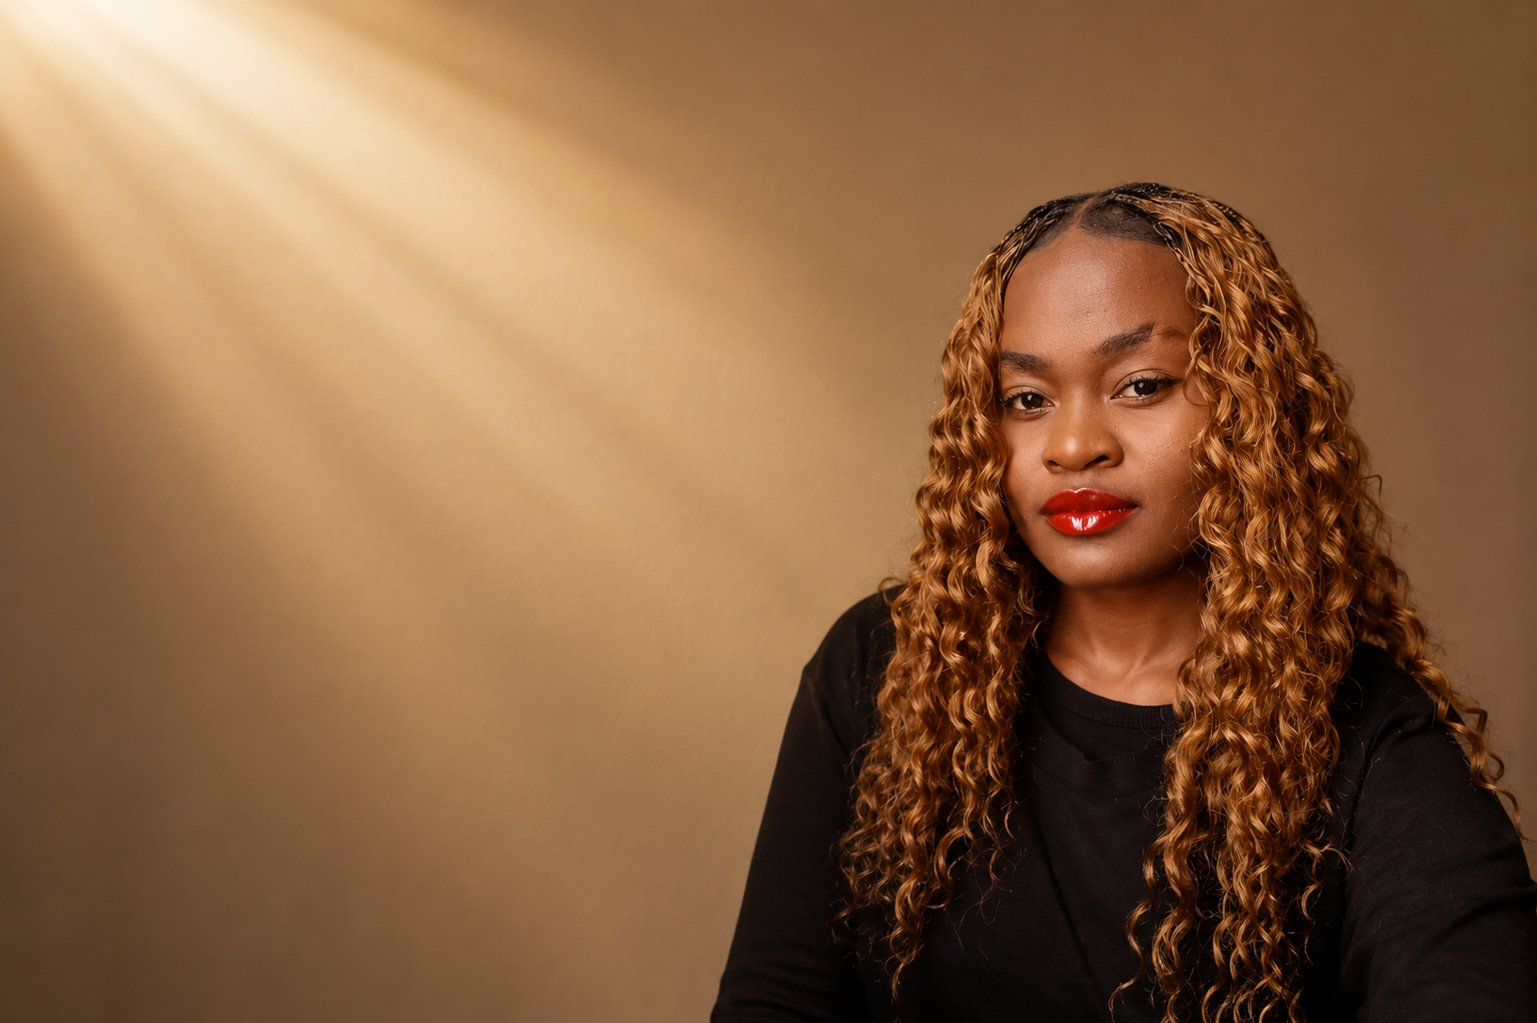
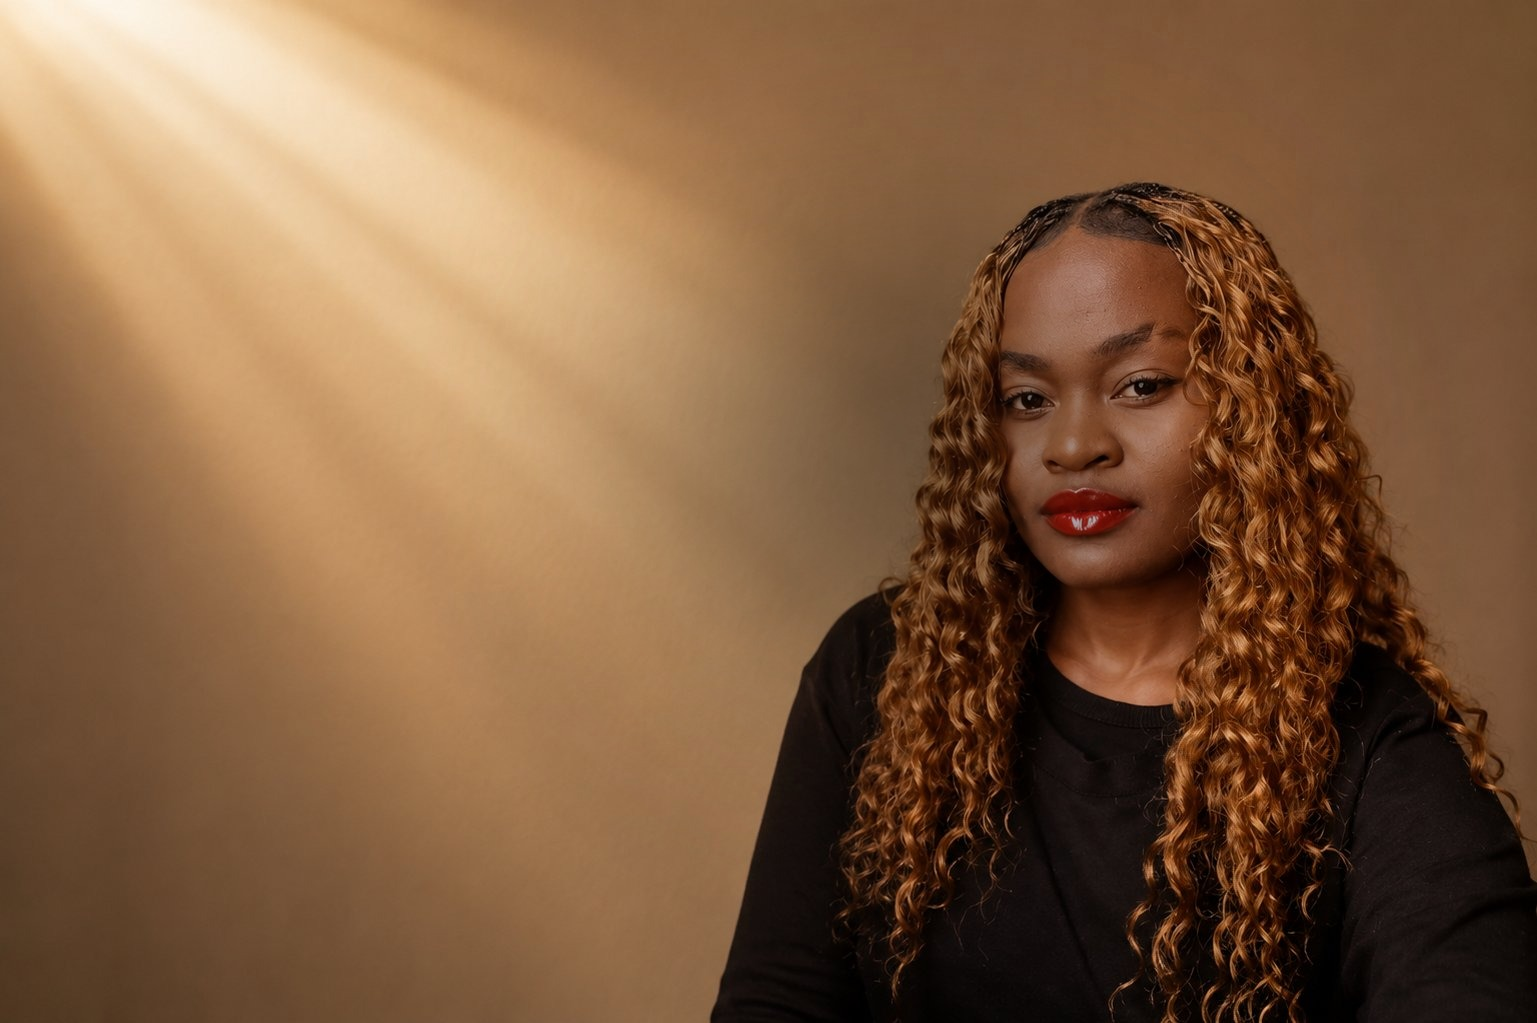
fgrty

Changed region(s): [[0.3748, 0.1818, 0.812, 0.697]]

diff --git a/app/book/page.tsx b/app/book/page.tsx
@@ -1,9 +1,23 @@
 "use client";
-import { useEffect, useState } from "react";
-import { ArrowRight, ArrowLeft, Clock, CheckCircle2, ShieldCheck, Smartphone, Landmark } from "lucide-react";
+import React, { useEffect, useRef, useState } from "react";
+import { ArrowRight, ArrowLeft, Clock, CheckCircle2, ShieldCheck, Smartphone, Landmark, SkipForward } from "lucide-react";
 import { CONSULTATION_TYPES } from "@/lib/types";
 
 type Step = 1 | 2 | 3;
+type FormState = { name: string; email: string; organization: string; website: string; industry: string; team_size: string; primary_challenge: string; desired_outcome: string };
+
+// Step 1 as a guided conversation — one question at a time instead of an 8-field wall.
+// `textarea` fields submit on Enter (Shift+Enter for a newline); others submit on Enter.
+const INTAKE_QUESTIONS: { key: keyof FormState; bot: string; placeholder: string; required: boolean; type?: "email" | "textarea"; skippable?: boolean }[] = [
+  { key: "name", bot: "Hi — I'm glad you're here. What's your name?", placeholder: "Your full name", required: true },
+  { key: "email", bot: "Nice to meet you. What's the best email to send your confirmation to?", placeholder: "your@email.com", type: "email", required: true },
+  { key: "organization", bot: "Are you reaching out for a company, NGO, or on your own behalf?", placeholder: "Company / NGO / Personal", required: false, skippable: true },
+  { key: "website", bot: "Got a website I should take a look at beforehand?", placeholder: "https://...", required: false, skippable: true },
+  { key: "industry", bot: "What industry or sector are you in?", placeholder: "e.g. Legal Tech, NGO, FinTech", required: false, skippable: true },
+  { key: "team_size", bot: "Roughly how big is the team?", placeholder: "e.g. 1–5, 10–50, 100+", required: false, skippable: true },
+  { key: "primary_challenge", bot: "Let's get into it — what's the main challenge you're facing right now?", placeholder: "Type your answer...", type: "textarea", required: true },
+  { key: "desired_outcome", bot: "And what would a successful outcome look like for you?", placeholder: "Type your answer...", type: "textarea", required: true },
+];
 
 const TIME_SLOTS: { label: string; value: string }[] = [
   { label: "09:00 AM", value: "09:00" },
@@ -18,8 +32,8 @@ const timeLabel = (value: string) => TIME_SLOTS.find(s => s.value === value)?.la
 // If Paystack isn't configured (no NEXT_PUBLIC_PAYSTACK_PUBLIC_KEY), paid
 // bookings fall back to a manual flow — no account signup needed to get the
 // site working, but it requires Decra to confirm payments by hand in /admin.
-const MPESA_PAYBILL = "XXXXXX";
-const MPESA_ACCOUNT = "Your name as the account number";
+const MPESA_PAYBILL = "542542";
+const MPESA_ACCOUNT = "02006312021250";
 const BANK_DETAILS = {
   accountName: "Decra Kerubo Mokorah",
   bankName: "I&M Bank",
@@ -50,7 +64,42 @@ export default function BookPage() {
   const [manualRef, setManualRef] = useState("");
   const [manualChannel, setManualChannel] = useState<"mpesa" | "bank">("mpesa");
   const [preferBankTransfer, setPreferBankTransfer] = useState(false);
-  const [form, setForm] = useState({ name: "", email: "", organization: "", website: "", industry: "", team_size: "", primary_challenge: "", desired_outcome: "" });
+  const [form, setForm] = useState<FormState>({ name: "", email: "", organization: "", website: "", industry: "", team_size: "", primary_challenge: "", desired_outcome: "" });
+
+  // Chat-style intake state
+  const [qIndex, setQIndex] = useState(0);
+  const [botTyping, setBotTyping] = useState(true);
+  const [chatInput, setChatInput] = useState("");
+  const [chatDone, setChatDone] = useState(false);
+  const chatEndRef = useRef<HTMLDivElement>(null);
+  const chatInputRef = useRef<HTMLTextAreaElement>(null);
+
+  const currentQuestion = INTAKE_QUESTIONS[qIndex];
+
+  // Simulate the bot "typing" before each question appears — keeps the pacing
+  // conversational instead of every question dumping in instantly.
+  useEffect(() => {
+    if (chatDone) return;
+    setBotTyping(true);
+    const t = setTimeout(() => { setBotTyping(false); chatInputRef.current?.focus(); }, qIndex === 0 ? 350 : 500 + Math.random() * 350);
+    return () => clearTimeout(t);
+  }, [qIndex, chatDone]);
+
+  useEffect(() => {
+    chatEndRef.current?.scrollIntoView({ behavior: "smooth", block: "end" });
+  }, [qIndex, botTyping, chatDone]);
+
+  const submitAnswer = (skip?: boolean) => {
+    const value = skip ? "" : chatInput.trim();
+    if (currentQuestion.required && !value) return;
+    setForm(f => ({ ...f, [currentQuestion.key]: value }));
+    setChatInput("");
+    if (qIndex < INTAKE_QUESTIONS.length - 1) {
+      setQIndex(i => i + 1);
+    } else {
+      setChatDone(true);
+    }
+  };
 
   const selectedConsultation = CONSULTATION_TYPES.find(t => t.id === selectedType);
   const isPaid = (selectedConsultation?.price ?? 0) > 0;
@@ -168,28 +217,85 @@ export default function BookPage() {
           ))}
         </div>
 
-        {/* Step 1 */}
+        {/* Step 1 — conversational intake */}
         {step === 1 && (
           <div>
             <h2 style={{ fontFamily: "var(--font-manjari)", fontWeight: 700, fontSize: "1.05rem", color: "var(--c-forest)", marginBottom: "0.35rem" }}>Tell me about yourself.</h2>
-            <p style={{ fontSize: "0.75rem", color: "var(--c-ink-muted)", marginBottom: "2rem" }}>This helps me prepare for our conversation.</p>
-            <div style={{ display: "flex", flexDirection: "column", gap: "1.1rem", marginBottom: "2rem" }}>
-              {[{ key: "name", label: "Full Name *", required: true, placeholder: "Your full name" }, { key: "email", label: "Email *", required: true, placeholder: "your@email.com", type: "email" }, { key: "organization", label: "Organization", placeholder: "Company / NGO / Personal" }, { key: "website", label: "Website", placeholder: "https://..." }, { key: "industry", label: "Industry / Sector", placeholder: "e.g. Legal Tech, NGO, FinTech" }, { key: "team_size", label: "Team Size", placeholder: "e.g. 1–5, 10–50, 100+" }].map(field => (
-                <div key={field.key}>
-                  <label style={labelStyle}>{field.label}</label>
-                  <input required={field.required} type={field.type || "text"} value={form[field.key as keyof typeof form]} onChange={e => setForm({ ...form, [field.key]: e.target.value })} placeholder={field.placeholder} className="field" />
+            <p style={{ fontSize: "0.75rem", color: "var(--c-ink-muted)", marginBottom: "1.5rem" }}>A few quick questions — answer at your own pace.</p>
+
+            <div className="chat-thread" style={{ display: "flex", flexDirection: "column", gap: "0.9rem", maxHeight: "min(52vh, 420px)", overflowY: "auto", marginBottom: "1.5rem", paddingRight: "0.25rem" }}>
+              {INTAKE_QUESTIONS.slice(0, qIndex).map((q, i) => (
+                <div key={q.key} className="chat-bubble-in">
+                  <div className="chat-bubble chat-bubble-bot">{q.bot}</div>
+                  <div className="chat-bubble chat-bubble-user">{form[q.key] ? form[q.key] : <span style={{ opacity: 0.6, fontStyle: "italic" }}>Skipped</span>}</div>
                 </div>
               ))}
-              {[{ key: "primary_challenge", label: "Primary Challenge *", placeholder: "What's the main challenge you're facing?" }, { key: "desired_outcome", label: "Desired Outcome *", placeholder: "What would a successful outcome look like?" }].map(field => (
-                <div key={field.key}>
-                  <label style={labelStyle}>{field.label}</label>
-                  <textarea required rows={3} value={form[field.key as keyof typeof form]} onChange={e => setForm({ ...form, [field.key]: e.target.value })} placeholder={field.placeholder} className="field" style={{ resize: "none" }} />
+
+              {!chatDone && (
+                <div className="chat-bubble-in">
+                  {botTyping ? (
+                    <div className="chat-bubble chat-bubble-bot chat-typing"><span /><span /><span /></div>
+                  ) : (
+                    <div className="chat-bubble chat-bubble-bot">{currentQuestion.bot}</div>
+                  )}
                 </div>
-              ))}
+              )}
+
+              {chatDone && (
+                <div className="chat-bubble-in">
+                  <div className="chat-bubble chat-bubble-bot">Perfect — that's everything I need for now. Ready to pick a call type?</div>
+                </div>
+              )}
+              <div ref={chatEndRef} />
             </div>
-            <button disabled={!form.name || !form.email || !form.primary_challenge || !form.desired_outcome} onClick={() => setStep(2)} className="btn-primary" style={{ border: "none", opacity: (!form.name || !form.email || !form.primary_challenge || !form.desired_outcome) ? 0.4 : 1 }}>
-              Continue <ArrowRight size={13} />
-            </button>
+
+            {!chatDone && !botTyping && (
+              <div className="chat-bubble-in" style={{ marginBottom: "1.5rem" }}>
+                {currentQuestion.type === "textarea" ? (
+                  <textarea
+                    ref={chatInputRef}
+                    rows={2}
+                    value={chatInput}
+                    onChange={e => setChatInput(e.target.value)}
+                    onKeyDown={e => { if (e.key === "Enter" && !e.shiftKey) { e.preventDefault(); submitAnswer(); } }}
+                    placeholder={currentQuestion.placeholder}
+                    className="field"
+                    style={{ resize: "none" }}
+                  />
+                ) : (
+                  <input
+                    ref={chatInputRef as unknown as React.RefObject<HTMLInputElement>}
+                    type={currentQuestion.type === "email" ? "email" : "text"}
+                    value={chatInput}
+                    onChange={e => setChatInput(e.target.value)}
+                    onKeyDown={e => { if (e.key === "Enter") { e.preventDefault(); submitAnswer(); } }}
+                    placeholder={currentQuestion.placeholder}
+                    className="field"
+                  />
+                )}
+                <div style={{ display: "flex", gap: "0.6rem", marginTop: "0.75rem" }}>
+                  <button
+                    disabled={currentQuestion.required && !chatInput.trim()}
+                    onClick={() => submitAnswer()}
+                    className="btn-primary"
+                    style={{ border: "none", opacity: (currentQuestion.required && !chatInput.trim()) ? 0.4 : 1, padding: "0.65rem 1.5rem" }}
+                  >
+                    Send <ArrowRight size={13} />
+                  </button>
+                  {currentQuestion.skippable && (
+                    <button onClick={() => submitAnswer(true)} className="btn-outline" style={{ display: "inline-flex", alignItems: "center", gap: "0.35rem", padding: "0.65rem 1.1rem" }}>
+                      Skip <SkipForward size={12} />
+                    </button>
+                  )}
+                </div>
+              </div>
+            )}
+
+            {chatDone && (
+              <button onClick={() => setStep(2)} className="btn-primary" style={{ border: "none" }}>
+                Continue <ArrowRight size={13} />
+              </button>
+            )}
           </div>
         )}
 
@@ -332,7 +438,25 @@ export default function BookPage() {
           </div>
         )}
       </div>
-      <style>{`@media(max-width:480px){.consult-grid{grid-template-columns:1fr!important}}`}</style>
+      <style>{`
+        @media(max-width:480px){.consult-grid{grid-template-columns:1fr!important}}
+
+        .chat-bubble-in { animation: chatIn 0.35s cubic-bezier(0.16,1,0.3,1); display: flex; flex-direction: column; gap: 0.4rem; }
+        @keyframes chatIn { from { opacity: 0; transform: translateY(8px); } to { opacity: 1; transform: none; } }
+
+        .chat-bubble { font-size: 0.8rem; line-height: 1.55; padding: 0.7rem 1rem; border-radius: 14px; max-width: 84%; word-break: break-word; white-space: pre-wrap; }
+        .chat-bubble-bot { align-self: flex-start; background: rgba(14,61,50,0.06); color: var(--c-forest); border-bottom-left-radius: 4px; }
+        .chat-bubble-user { align-self: flex-end; background: var(--c-forest); color: white; border-bottom-right-radius: 4px; }
+
+        .chat-typing { display: flex; align-items: center; gap: 0.3rem; padding: 0.85rem 1.1rem; }
+        .chat-typing span { width: 5px; height: 5px; border-radius: 50%; background: var(--c-forest); opacity: 0.5; animation: chatDot 1.1s infinite ease-in-out; }
+        .chat-typing span:nth-child(2) { animation-delay: 0.15s; }
+        .chat-typing span:nth-child(3) { animation-delay: 0.3s; }
+        @keyframes chatDot { 0%, 60%, 100% { transform: translateY(0); opacity: 0.35; } 30% { transform: translateY(-3px); opacity: 0.9; } }
+
+        .chat-thread::-webkit-scrollbar { width: 5px; }
+        .chat-thread::-webkit-scrollbar-thumb { background: var(--c-border); border-radius: 4px; }
+      `}</style>
     </div>
   );
 }
